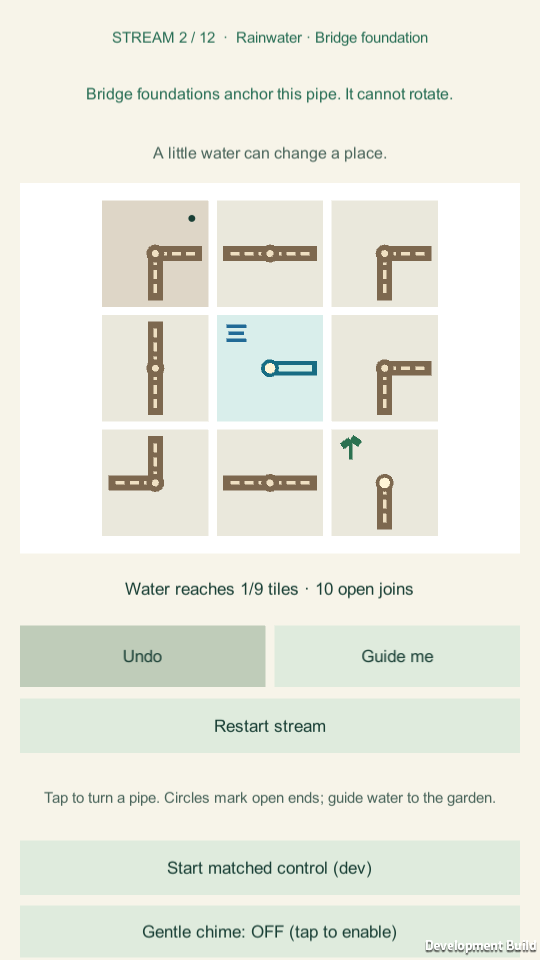
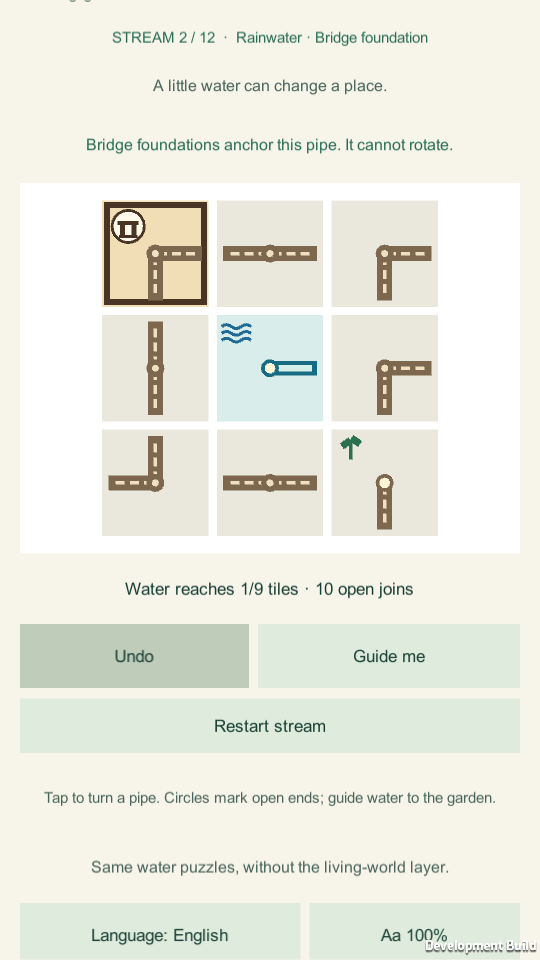
fix(evergrove): board-first puzzle screens on phone-sized layouts
Puzzle screens now lead with stream, prompt, anchor line and board, then
its controls. Village art, consequence, memory and one settings row follow.
The post-choice screen and the ending keep their existing order.

diff --git a/games/evergrove/Assets/Scripts/Unity/EvergroveApp.cs b/games/evergrove/Assets/Scripts/Unity/EvergroveApp.cs
@@ -462,14 +462,18 @@ namespace Evergrove.UnityClient
             // The post-choice screen leads with the changed world and the new
             // memory; its settings move below the primary actions.
             bool memoryScreen = living && showingMemory && world.Choices.Length > 0;
+            // Every puzzle screen is board-first: stream, anchor, board and its
+            // controls come before the village art, consequence, memory and settings.
+            bool puzzleScreen = !memoryScreen && !world.Completed;
             // An open language picker keeps its own toggle at the top so it can close.
-            bool settingsAtTop = languagePicker || (!firstPuzzle && !memoryScreen);
+            // Only the ending keeps its settings at the top.
+            bool settingsAtTop = languagePicker || (!puzzleScreen && !memoryScreen);
             bool multiLanguage = LocaleRuntime.SelectableLanguages.Count > 1;
             Text wordmark = Label(content, "Mosselora wordmark", GameLocalization.Text("title"),
                 15, 26, Leaf);
             wordmark.fontStyle = FontStyle.Bold;
             Label(content, "Title", GameLocalization.Text("subtitle"),
-                firstPuzzle ? 16 : 24, firstPuzzle ? 28 : 44, Ink);
+                puzzleScreen ? 16 : 24, puzzleScreen ? 28 : 44, Ink);
             if (multiLanguage && settingsAtTop)
                 Button(content, "Language settings",
                     GameLocalization.Text("language") + ": " +
@@ -501,10 +505,10 @@ namespace Evergrove.UnityClient
                         () => { confirmReset = false; Rebuild(); }, 44);
             }
 
-            // A first-time player must see a tappable channel before any
-            // decorative illustration. The source-connected water remains
-            // legible on each tile even when the optional world is below.
-            if (firstPuzzle)
+            // A player must see a tappable channel before any decorative
+            // illustration. The source-connected water remains legible on each
+            // tile even when the optional world is below.
+            if (puzzleScreen)
                 BuildPuzzle();
 
             if (living)
@@ -605,16 +609,8 @@ namespace Evergrove.UnityClient
                         Rebuild();
                     });
             }
-            else if (!firstPuzzle)
-                BuildPuzzle();
-            if (firstPuzzle && !languagePicker &&
-                LocaleRuntime.SelectableLanguages.Count > 1)
-                Button(content, "Language settings",
-                    GameLocalization.Text("language") + ": " +
-                    GameLocalization.NativeName(GameLocalization.Current),
-                    () => { languagePicker = true; Rebuild(true); }, 48);
-            if (firstPuzzle && !languagePicker)
-                TextSizeButton(content);
+            if (puzzleScreen && !languagePicker)
+                SettingsRow(multiLanguage);
 
             if (living && !world.Completed && !showingMemory && world.Choices.Length > 0)
                 MemoryJournal();
@@ -812,12 +808,13 @@ namespace Evergrove.UnityClient
                 GameLocalization.Text("stream", world.Round + 1, PuzzleCatalog.Count) +
                 (GameLocalization.Current == "en" ? "  ·  " + puzzle.Name : ""),
                 13, 30, Leaf, TextAnchor.MiddleCenter);
-            if (puzzle.AnchoredTile >= 0)
-                Label(content, "Protected habitat", LocalizedVillage.EnvironmentalRule(world),
-                    14, 48, Leaf, TextAnchor.MiddleCenter);
             Label(content, "Prompt", world.Round == 0 ?
                 GameLocalization.Text("first") : LocalizedVillage.Prompt(world), 14, 34, Moss,
                 TextAnchor.MiddleCenter);
+            // The anchor line sits directly above the board: it explains the framed tile.
+            if (puzzle.AnchoredTile >= 0)
+                Label(content, "Protected habitat", LocalizedVillage.EnvironmentalRule(world),
+                    14, 48, Leaf, TextAnchor.MiddleCenter);
             var board = Card(content, "The water puzzle", White);
             var gridNode = Node("Water connections", board.transform);
             // Keep the entire puzzle inside a compact phone, including the
@@ -997,8 +994,8 @@ namespace Evergrove.UnityClient
                 13, 56, Moss, TextAnchor.MiddleCenter);
         }
 
-        // Compact settings below the primary actions of the post-choice screen.
-        // Same controls and behavior as the top-of-screen settings elsewhere.
+        // Compact settings row below the primary content of puzzle and post-choice
+        // screens. Same controls and behavior as the top-of-screen settings.
         private void SettingsRow(bool offerLanguage)
         {
             GameObject row = Row(content, "Settings row");

diff --git a/games/evergrove/docs/PLAYER_EXPERIENCE.md b/games/evergrove/docs/PLAYER_EXPERIENCE.md
@@ -23,7 +23,7 @@
 ```text
 Portrait scrolling UI
   Brand + product headline
-  Language selector (Automatic / 30-language picker) and text size "Aa 100% / 125% / 150%" (language-neutral; cycles on tap), above the board except on the post-choice screen
+  Puzzle screen order (board-first, all chapters): title → stream line → flavor prompt → protected-landmark line → **board** → water-reach status → Undo / Hint / Restart → village art → consequence → remembered choice → one settings row (Language, "Aa 100%/125%/150%", language-neutral, cycles on tap). The post-choice screen keeps consequence-first order, and the ending keeps settings at the top
   [Living mode] 2D illustration OR opt-in 2.5D miniature
   World consequence and one remembered action
   [If a choice was committed] world consequence, memory card, Continue + Change choice, then the language/text-size row (unverified with players)
